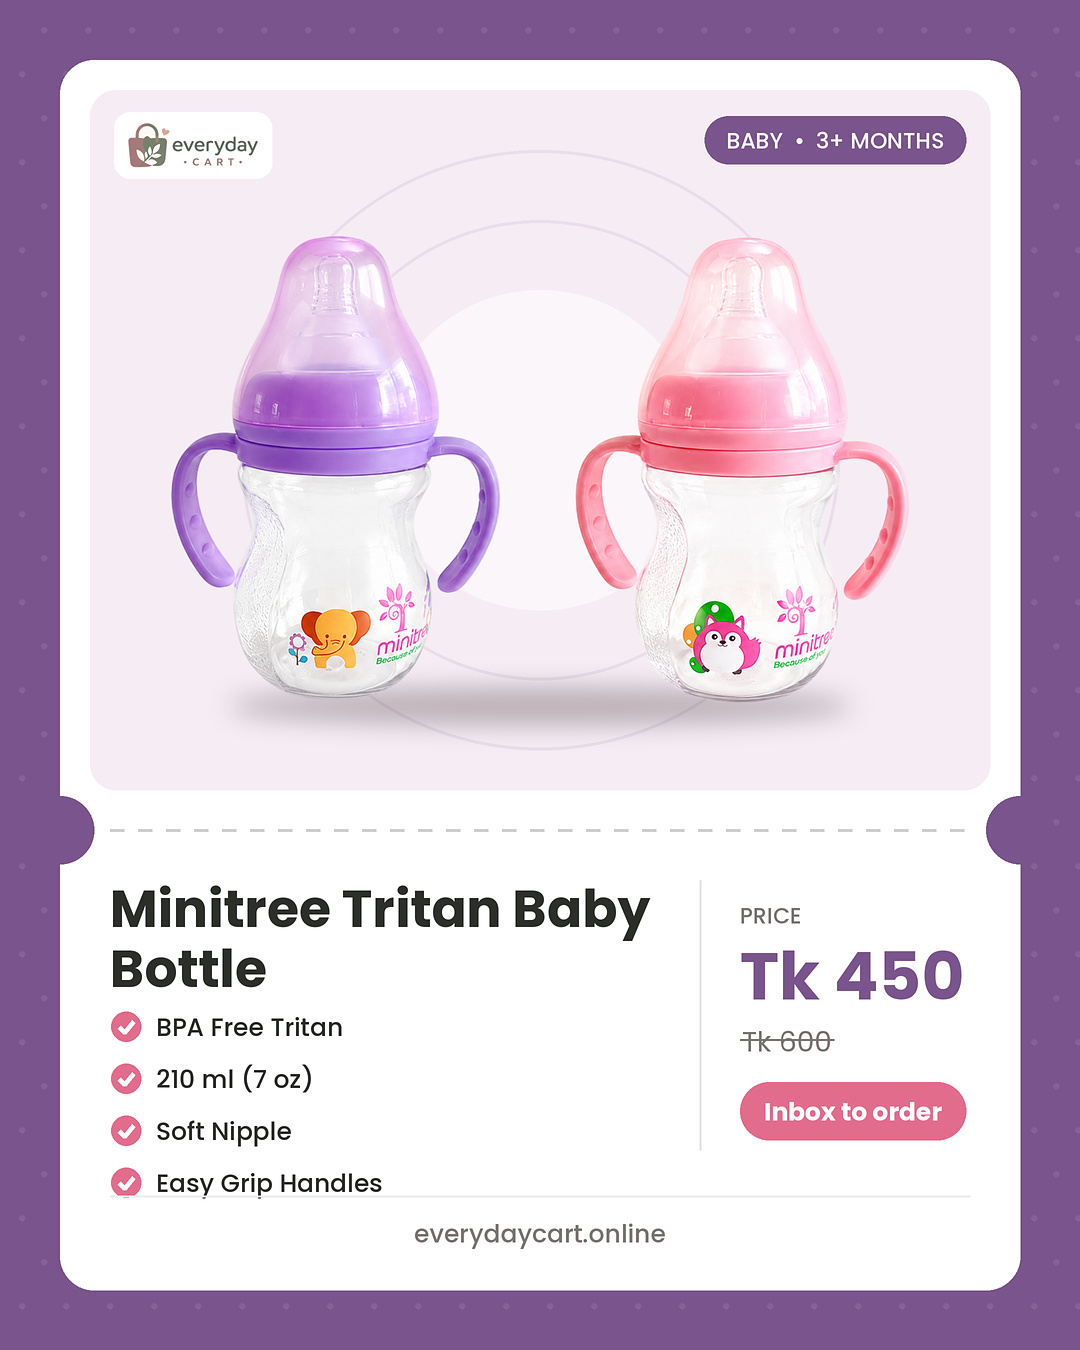
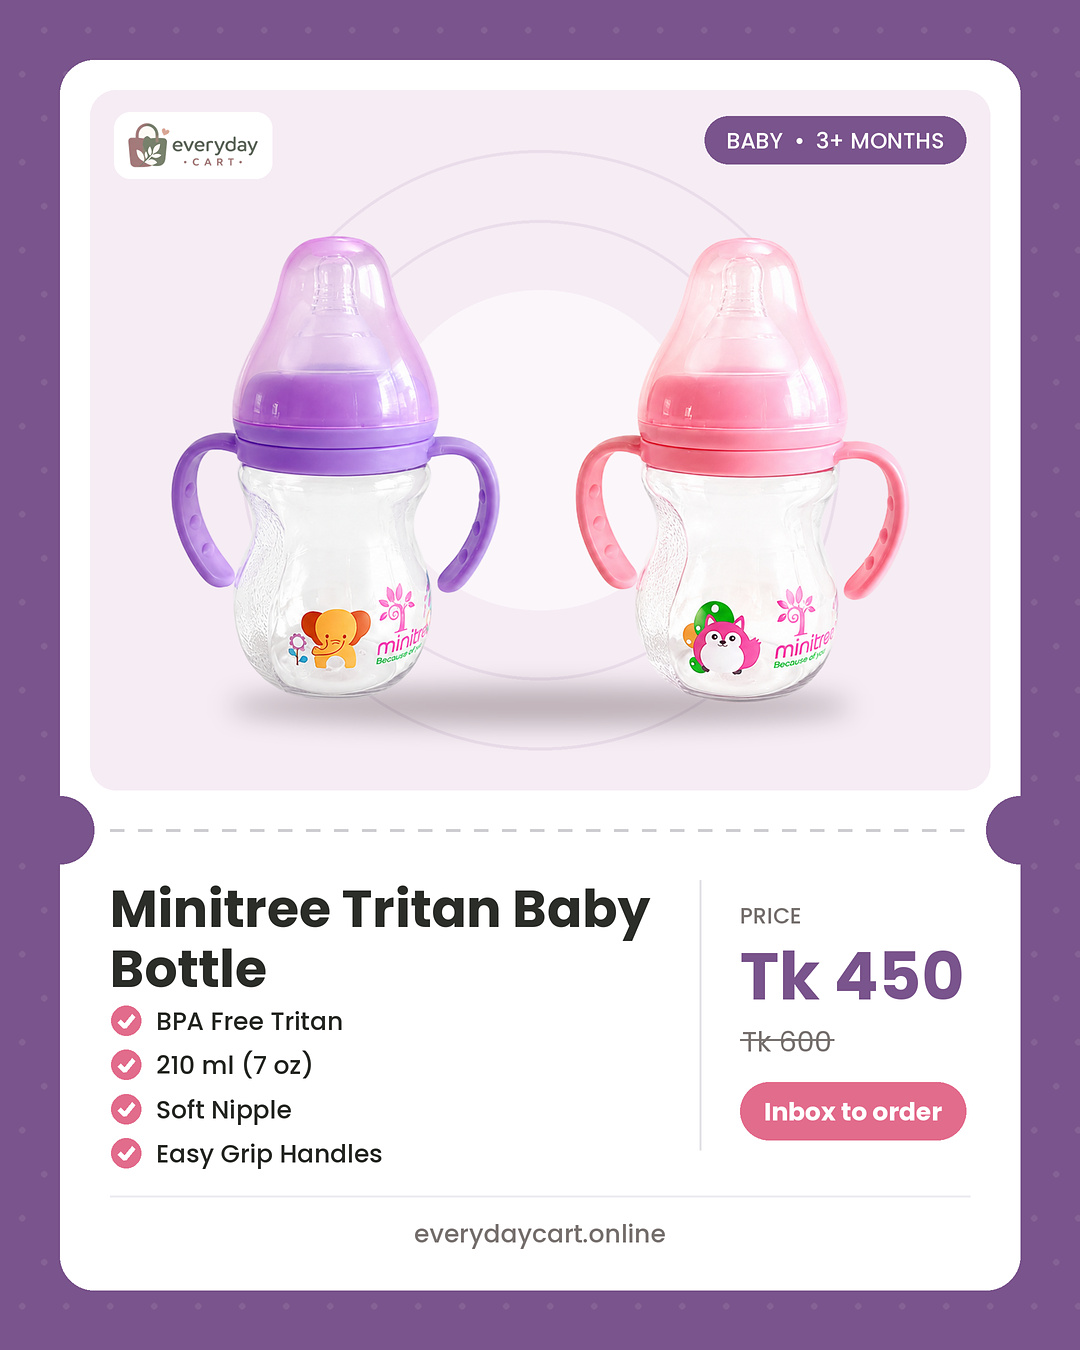
Ticket card: keep the feature list clear of the footer rule
Claude-Session: https://claude.ai/code/session_0114xmdL7zXum4m3QqDHdTTp

Changed region(s): [[0.0917, 0.7467, 0.3667, 0.9022]]

diff --git a/tools/render_styles4.py b/tools/render_styles4.py
@@ -105,11 +105,11 @@ def template_j(p):
     ft, lines = wrap(d, p["title"], "Poppins-Bold.ttf", 52, 600, 2)
     y = 872
     for l in lines: d.text(P(110, y), l, font=ft, fill=INK); y += ft.size / S * 1.15
-    y += 18
-    ff = f("Poppins-Medium.ttf", 25)
+    y += 12
+    step = min(52, (1180 - y) / 4)
     for t in p["feats"][:4]:
         check_icon(d, 126, y + 17, 15, acc, (255, 255, 255))
-        d.text(P(156, y), t, font=fit(d, t, "Poppins-Medium.ttf", 25, 470), fill=INK); y += 52
+        d.text(P(156, y), t, font=fit(d, t, "Poppins-Medium.ttf", 25, 470), fill=INK); y += step
     # price column
     d.line(P(700, 880, 700, 1150), fill=(226, 226, 230), width=2 * S)
     lf = f("Poppins-Medium.ttf", 22); d.text(P(740, 900), p.get("label", "PRICE"), font=lf, fill=MUTE)
